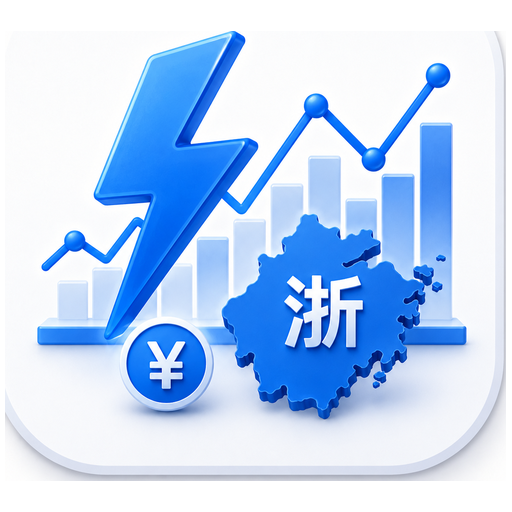
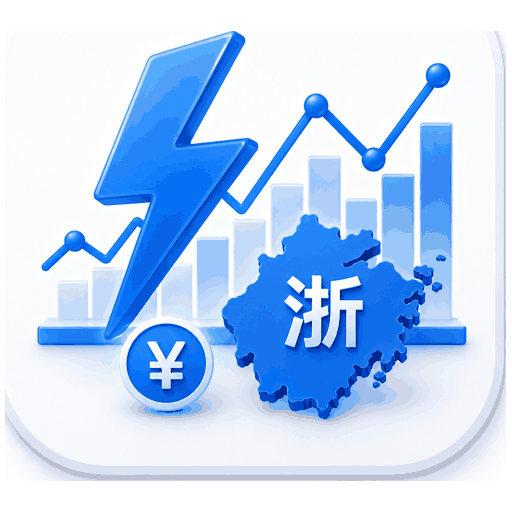
fix(pwa): 压缩图标体积+增加96/144尺寸,修复鸿蒙系统图标不显示
- 使用 zopflipng 压缩 v4 图标 71% (247KB→70KB)
- 新增 96x96 和 144x144 图标 for HarmonyOS 兼容
- manifest 增加多尺寸声明
- apple-touch-icon 增加 180x180 声明
- SW 版本 v12→v13, 强制刷新手机缓存

fix: 华为鸿蒙系统升级后PWA图标不显示

diff --git a/sw.js b/sw.js
@@ -1,12 +1,14 @@
 /* 浙江电力日前电价 PWA · service worker
    页面导航与 data.json 走 network-first，静态依赖走 cache-first。
    改版时把 VER 加一位；新 SW 激活后旧壳不再长期滞留。 */
-const VER = 'zjpower-v12';
+const VER = 'zjpower-v13';
 const SHELL = [
   './',
   './index.html',
   './manifest.webmanifest',
   './data.json',
+  './icons/icon-96-v4.png',
+  './icons/icon-144-v4.png',
   './icons/icon-192-v4.png',
   './icons/icon-512-v4.png',
   './vendor/chart.umd.js',

diff --git a/index.html b/index.html
@@ -11,6 +11,7 @@
 <meta name="apple-mobile-web-app-title" content="浙江电价">
 <link rel="manifest" href="./manifest.webmanifest">
 <link rel="apple-touch-icon" href="./icons/icon-192-v4.png">
+<link rel="apple-touch-icon" sizes="180x180" href="./icons/icon-192-v4.png">
 <link rel="preconnect" href="https://fonts.googleapis.com">
 <link rel="preconnect" href="https://fonts.gstatic.com" crossorigin>
 <!-- Google Fonts 改为非阻塞加载：大陆网络访问不到 fonts.googleapis.com 也不会卡住首屏，系统字体先顶上 -->